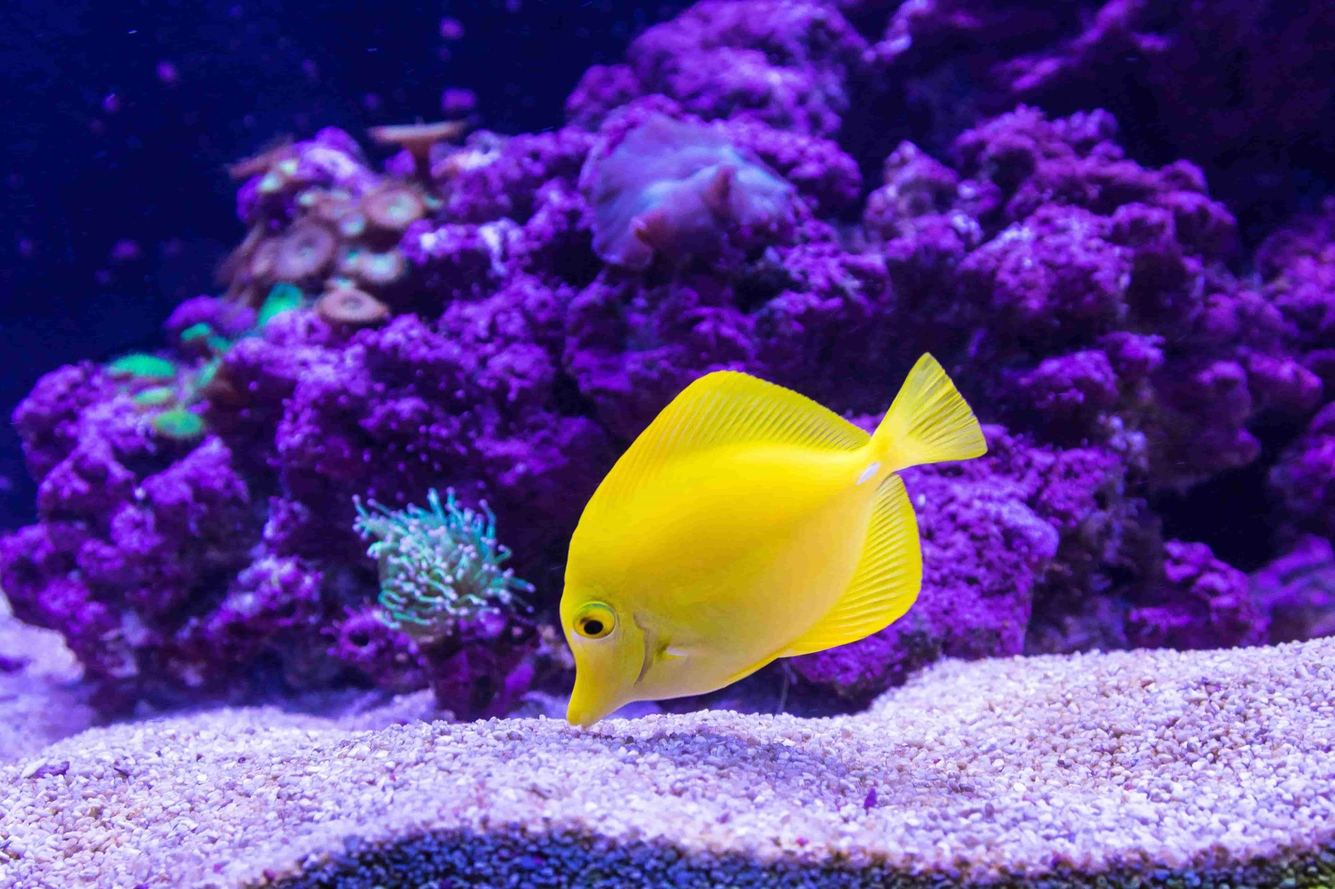
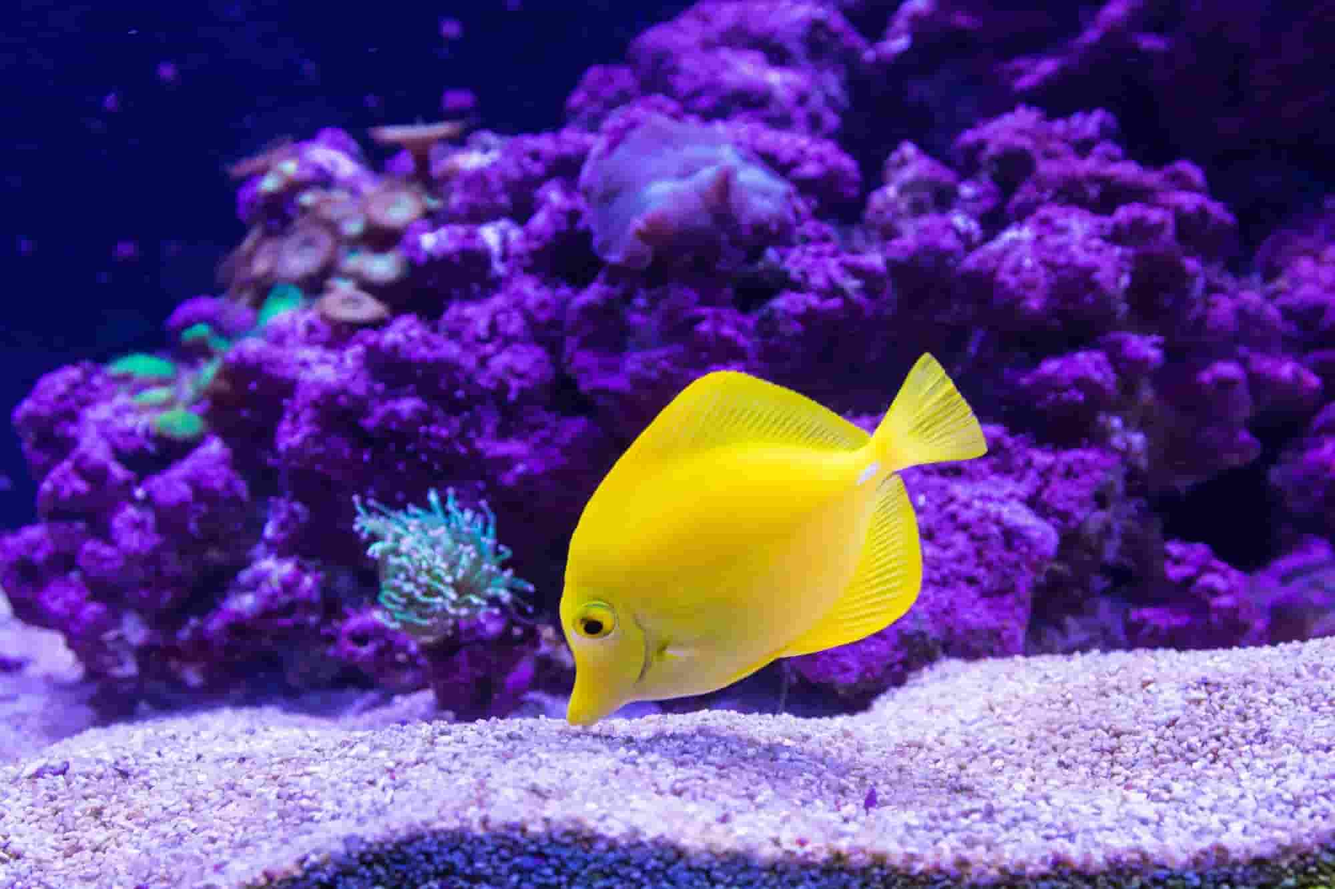
Compress gallery images further and change media query for screen size 500px or less

diff --git a/gallery.html b/gallery.html
@@ -24,18 +24,19 @@
         <div class="photos">
             <img src="assets/images/big-fish-min.jpg" alt="two big fishes">
             <img src="assets/images/beta-fish-min.jpg" alt="male beta fish">
-            <img src="assets/images/clown-fish-min.jpg" alt="clown/ nemo fishes">
+            <img src="assets/images/clown-fishtank-min.jpg" alt="clown/ nemo fishes">
             <img src="assets/images/colorful-fish-min.jpg" alt="multicoloured fishes">
             <img src="assets/images/discus-fish-min.jpg" alt="discus fishes in tank">
             <img src="assets/images/fish-min.jpg" alt="multicoloured fishes in a dark tank">
             <img src="assets/images/marine-fish-min.jpg" alt="marine fish tank">
-            <img src="assets/images/neon-tetra-min.jpg" alt="neon tetra fishes">
+            <img src="assets/images/beta-tank-min.jpg" alt="beta fish tank">
             <img src="assets/images/plant-tank-min.jpg" alt="planted fish tank">
             <img src="assets/images/planted-tank-min.jpg" alt="planted fish tank">
             <img src="assets/images/small-fish-min.jpg" alt="female beta fish in tank">
             <img src="assets/images/tank-on-desk-min.jpg" alt="fish tank set up on a counter top">
             <img src="assets/images/tetra-fish-min.jpg" alt="neon tetra fish in tank">
             <img src="assets/images/yellow-fish-min.jpg" alt="yellow marine water fish">
+
         </div>
     </section>
     <footer>

diff --git a/assets/css/style.css b/assets/css/style.css
@@ -326,4 +326,9 @@ th {
         background-repeat: no-repeat;
         background-size: cover;
     }
+
+    .photos {
+        column-count: 1;
+        padding: 20px;
+    }
 }
